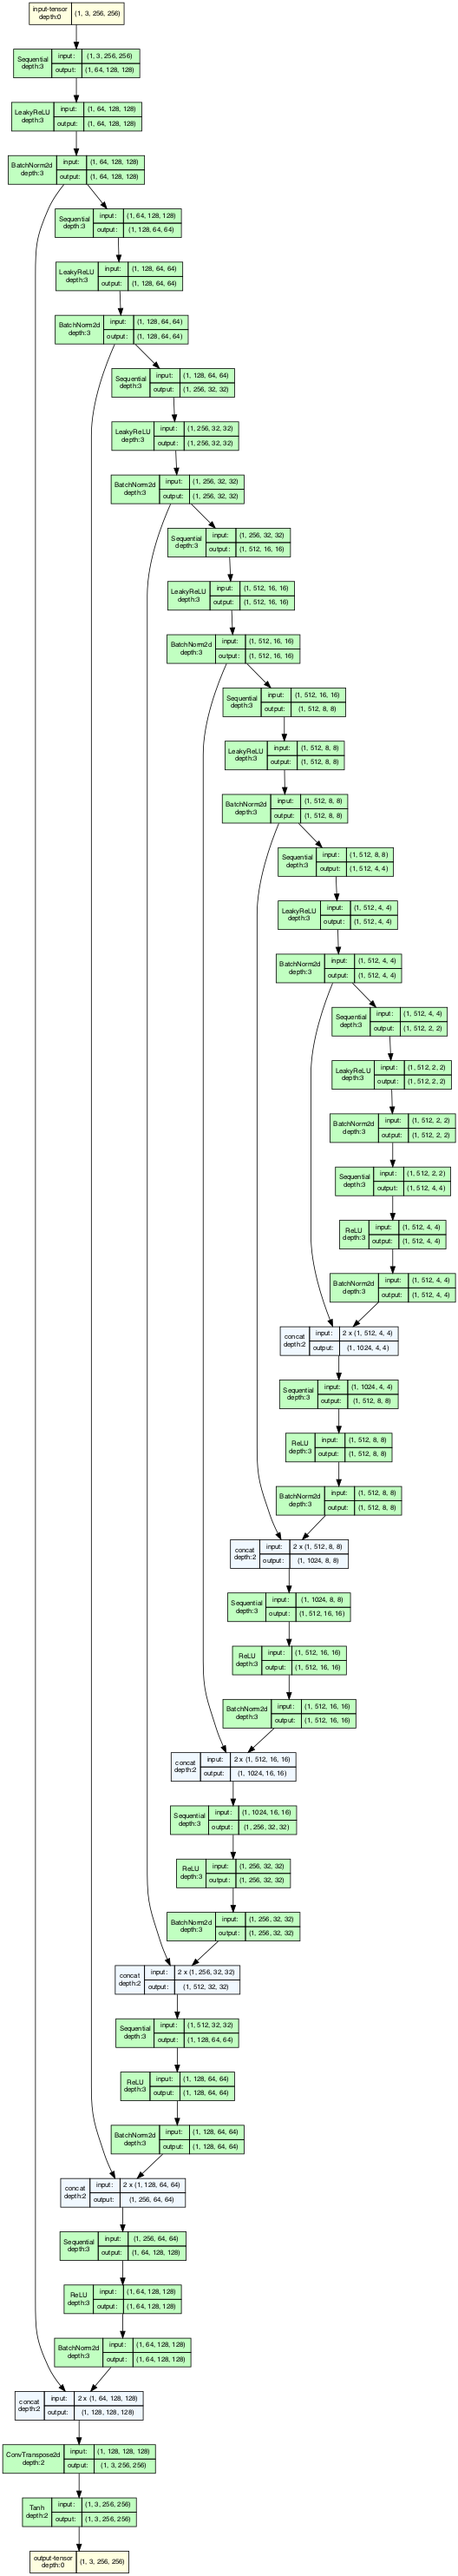
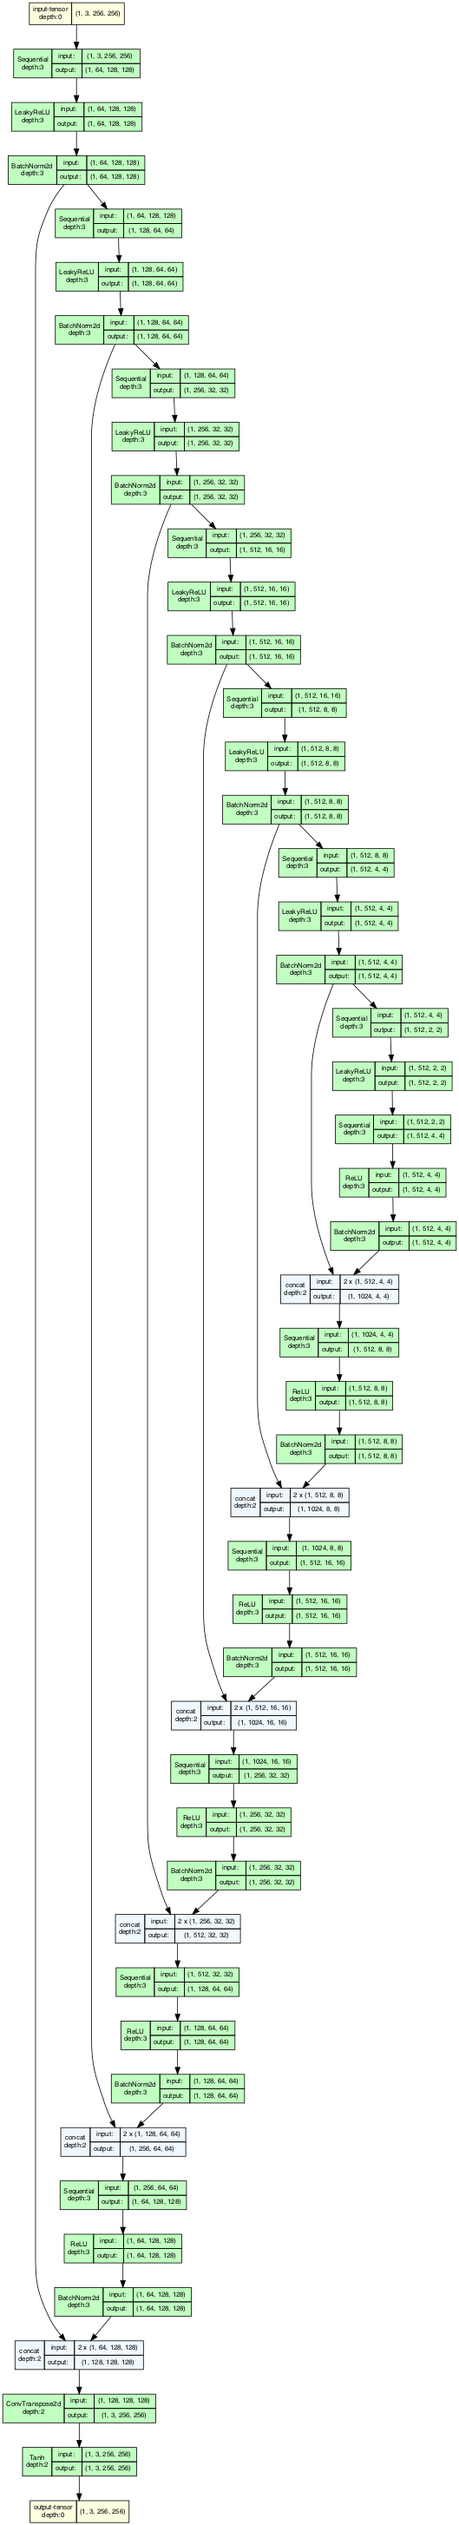
netG is added #14

Changed region(s): [[0.0303, 0.0, 1.0, 1.0]]

diff --git a/src/generator.py b/src/generator.py
@@ -1,0 +1,153 @@
+import sys
+import os
+import argparse
+import torch
+import torch.nn as nn
+from collections import OrderedDict
+from torchsummary import summary
+from torchview import draw_graph
+
+sys.path.append("src/")
+
+from utils import config
+from encoder import Encoder
+from decoder import Decoder
+
+
+class Generator(nn.Module):
+    def __init__(self, in_channels=3):
+        super(Generator, self).__init__()
+
+        self.in_channels = in_channels
+        self.out_channels = 64
+        self.kernel = 4
+        self.stride = 2
+        self.padding = 1
+
+        self.encoder1 = Encoder(
+            in_channels=self.in_channels, out_channels=self.out_channels
+        )
+        self.encoder2 = Encoder(
+            in_channels=self.out_channels, out_channels=self.out_channels * 2
+        )
+        self.encoder3 = Encoder(
+            in_channels=self.out_channels * 2, out_channels=self.out_channels * 4
+        )
+        self.encoder4 = Encoder(
+            in_channels=self.out_channels * 4, out_channels=self.out_channels * 8
+        )
+        self.encoder5 = Encoder(
+            in_channels=self.out_channels * 8, out_channels=self.out_channels * 8
+        )
+        self.encoder6 = Encoder(
+            in_channels=self.out_channels * 8, out_channels=self.out_channels * 8
+        )
+        self.encoder7 = Encoder(
+            in_channels=self.out_channels * 8,
+            out_channels=self.out_channels * 8,
+            use_batch_norm=False,
+        )
+
+        self.decoder1 = Decoder(
+            in_channels=self.out_channels * 8, out_channels=self.out_channels * 8
+        )
+        self.decoder2 = Decoder(
+            in_channels=self.out_channels * 8 * 2, out_channels=self.out_channels * 8
+        )
+        self.decoder3 = Decoder(
+            in_channels=self.out_channels * 8 * 2, out_channels=self.out_channels * 8
+        )
+        self.decoder4 = Decoder(
+            in_channels=self.out_channels * 8 * 2, out_channels=self.out_channels * 4
+        )
+        self.decoder5 = Decoder(
+            in_channels=self.out_channels * 4 * 2, out_channels=self.out_channels * 2
+        )
+        self.decoder6 = Decoder(
+            in_channels=self.out_channels * 2 * 2,
+            out_channels=self.out_channels,
+        )
+
+        self.output = nn.Sequential(
+            nn.ConvTranspose2d(
+                in_channels=128,
+                out_channels=3,
+                kernel_size=self.kernel,
+                stride=self.stride,
+                padding=self.padding,
+            ),
+            nn.Tanh(),
+        )
+
+    def forward(self, x):
+        if isinstance(x, torch.Tensor):
+            encoder1 = self.encoder1(x)
+            encoder2 = self.encoder2(encoder1)
+            encoder3 = self.encoder3(encoder2)
+            encoder4 = self.encoder4(encoder3)
+            encoder5 = self.encoder5(encoder4)
+            encoder6 = self.encoder6(encoder5)
+            encoder7 = self.encoder7(encoder6)
+
+            decoder1 = self.decoder1(encoder7, encoder6)
+            decoder2 = self.decoder2(decoder1, encoder5)
+            decoder3 = self.decoder3(decoder2, encoder4)
+            decoder4 = self.decoder4(decoder3, encoder3)
+            decoder5 = self.decoder5(decoder4, encoder2)
+            decoder6 = self.decoder6(decoder5, encoder1)
+            output = self.output(decoder6)
+
+            return output
+
+        else:
+            raise Exception(
+                "Please provide the tensor for further process".capitalize()
+            )
+
+    @staticmethod
+    def total_params(model):
+        if isinstance(model, Generator):
+            return sum(p.numel() for p in model.parameters())
+
+        else:
+            raise Exception(
+                "Please provide the tensor for further process".capitalize()
+            )
+
+
+if __name__ == "__main__":
+    parser = argparse.ArgumentParser(
+        description="Generator for the DiscoGAN".capitalize()
+    )
+    parser.add_argument(
+        "--in_channels",
+        type=int,
+        default=3,
+        help="Number of input channels".capitalize(),
+    )
+    parser.add_argument(
+        "--out_channels",
+        type=int,
+        default=3,
+        help="Number of output channels".capitalize(),
+    )
+    args = parser.parse_args()
+
+    in_channels = args.in_channels
+    netG = Generator(in_channels=in_channels)
+
+    print(summary(model=netG, input_size=(3, 256, 256)))
+
+    config_files = config()
+    files_path = config_files["path"]["files_path"]
+
+    draw_graph(model=netG, input_data=torch.randn(1, 3, 256, 256)).visual_graph.render(
+        filename=os.path.join(files_path, "netG"),
+        format=(
+            "png"
+            if os.path.exists(files_path)
+            else "Cannot saved the netG model architecture".capitalize()
+        ),
+    )
+
+    assert netG(torch.randn(1, 3, 256, 256)).size() == (1, 3, 256, 256)
